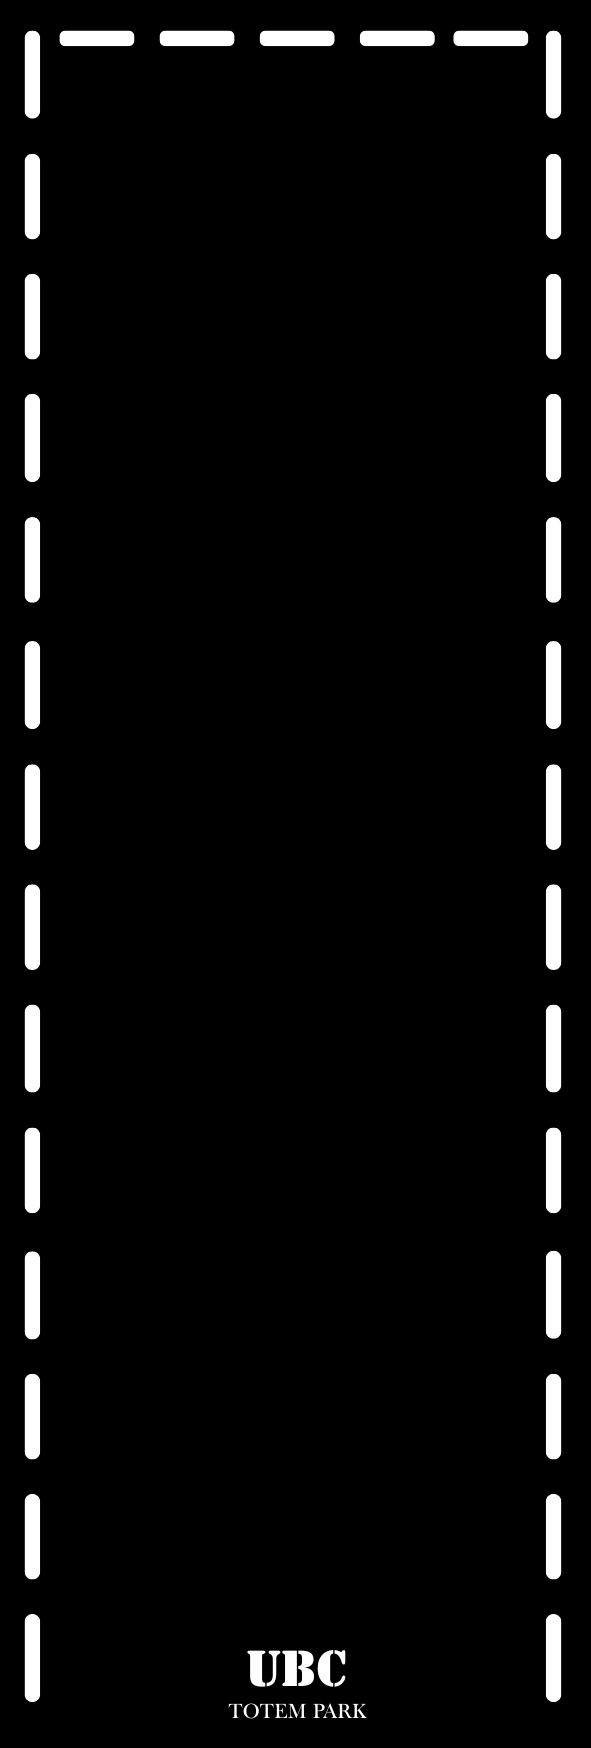
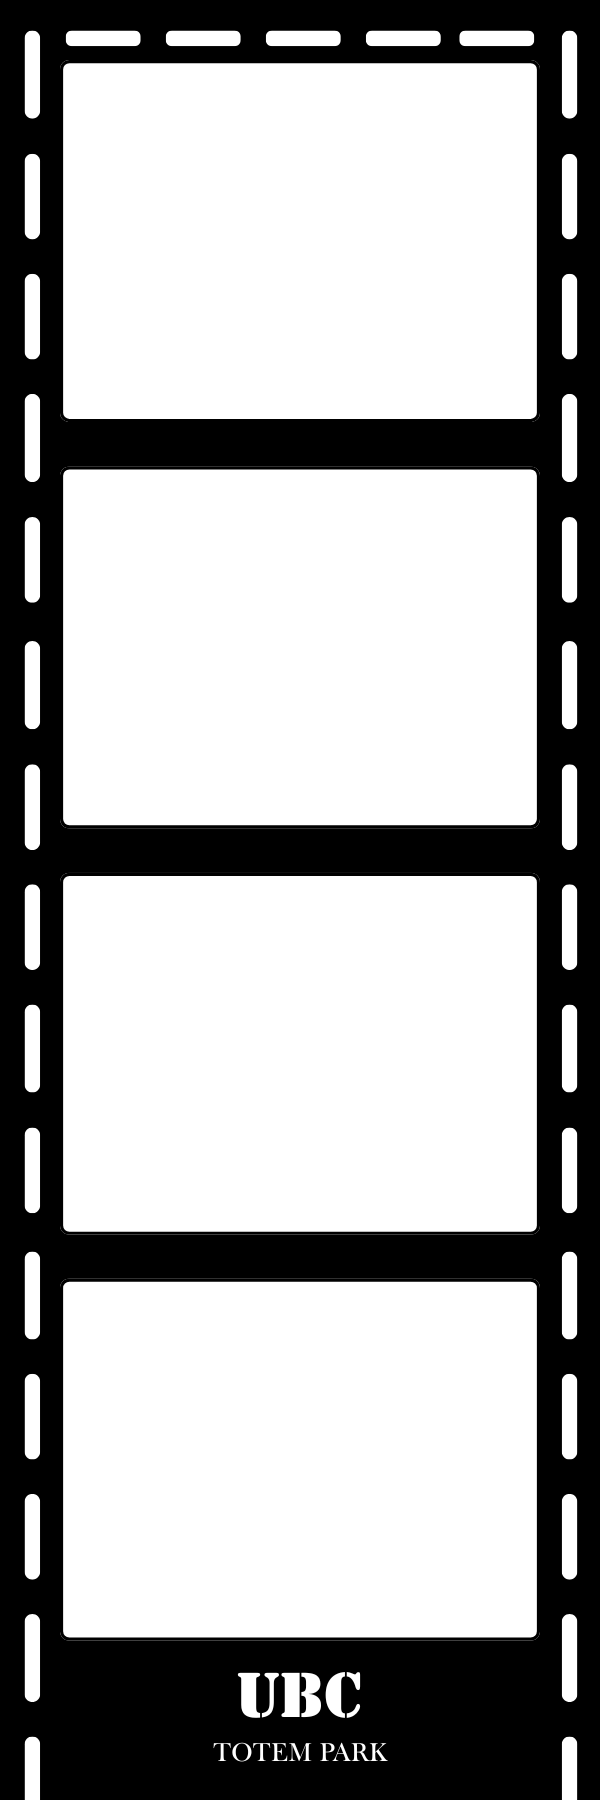
fixed frame

diff --git a/public/app.js b/public/app.js
@@ -312,6 +312,9 @@ const recordIterationVideo = async () => {
         };
     });
 
+    // Draw the frame on the canvas BEFORE starting the recorder so it's not black
+    ctx.drawImage(frameImage, 0, 0, FRAME_WIDTH, FRAME_HEIGHT);
+
     mediaRecorder.start();
 
     // Fixed duration per slot: 2 seconds each → 8 seconds total for 4 photos
@@ -328,8 +331,11 @@ const recordIterationVideo = async () => {
         clipVideo.muted = true;
         clipVideo.playsInline = true;
         clipVideo.src = URL.createObjectURL(clipBlob);
-        await new Promise((resolve) => { clipVideo.onloadeddata = resolve; });
-        clipVideo.play();
+        // Wait for canplay (not just loadeddata) so frames are actually decodable
+        await new Promise((resolve) => { clipVideo.oncanplay = resolve; });
+        await clipVideo.play();
+        // Small delay to ensure the first frame is rendered
+        await wait(50);
 
         // Draw the clip for exactly SLOT_DURATION_MS using a wall-clock timer
         const slotStart = performance.now();
@@ -430,14 +436,21 @@ const exportStrip = async () => {
     if (qrVideoLoading) qrVideoLoading.style.display = "";
     showScreen("done");
 
-    // Upload photo strip
+    // Upload photo strip and print in parallel for faster QR display
+    const uploadPhotoPromise = fetch("/api/upload", {
+        method: "POST",
+        headers: { "Content-Type": "application/json" },
+        body: JSON.stringify({ dataUrl: singleStripDataUrl })
+    }).then((r) => r.json());
+
+    const uploadPrintPromise = fetch("/api/upload-print", {
+        method: "POST",
+        headers: { "Content-Type": "application/json" },
+        body: JSON.stringify({ dataUrl })
+    }).catch((err) => console.error("Print upload failed:", err));
+
     try {
-        const response = await fetch("/api/upload", {
-            method: "POST",
-            headers: { "Content-Type": "application/json" },
-            body: JSON.stringify({ dataUrl: singleStripDataUrl })
-        });
-        const result = await response.json();
+        const [result] = await Promise.all([uploadPhotoPromise, uploadPrintPromise]);
         if (result.downloadUrl) {
             downloadLink.href = result.downloadUrl;
             downloadLink.setAttribute("download", "photobooth-strip.png");
@@ -445,17 +458,6 @@ const exportStrip = async () => {
         }
     } catch (error) {
         qrImage.alt = "QR generation failed";
-    }
-
-    // Upload 4x6 double-strip for admin printing
-    try {
-        await fetch("/api/upload-print", {
-            method: "POST",
-            headers: { "Content-Type": "application/json" },
-            body: JSON.stringify({ dataUrl })
-        });
-    } catch (error) {
-        console.error("Print upload failed:", error);
     }
 
     // Compose and upload video in background
